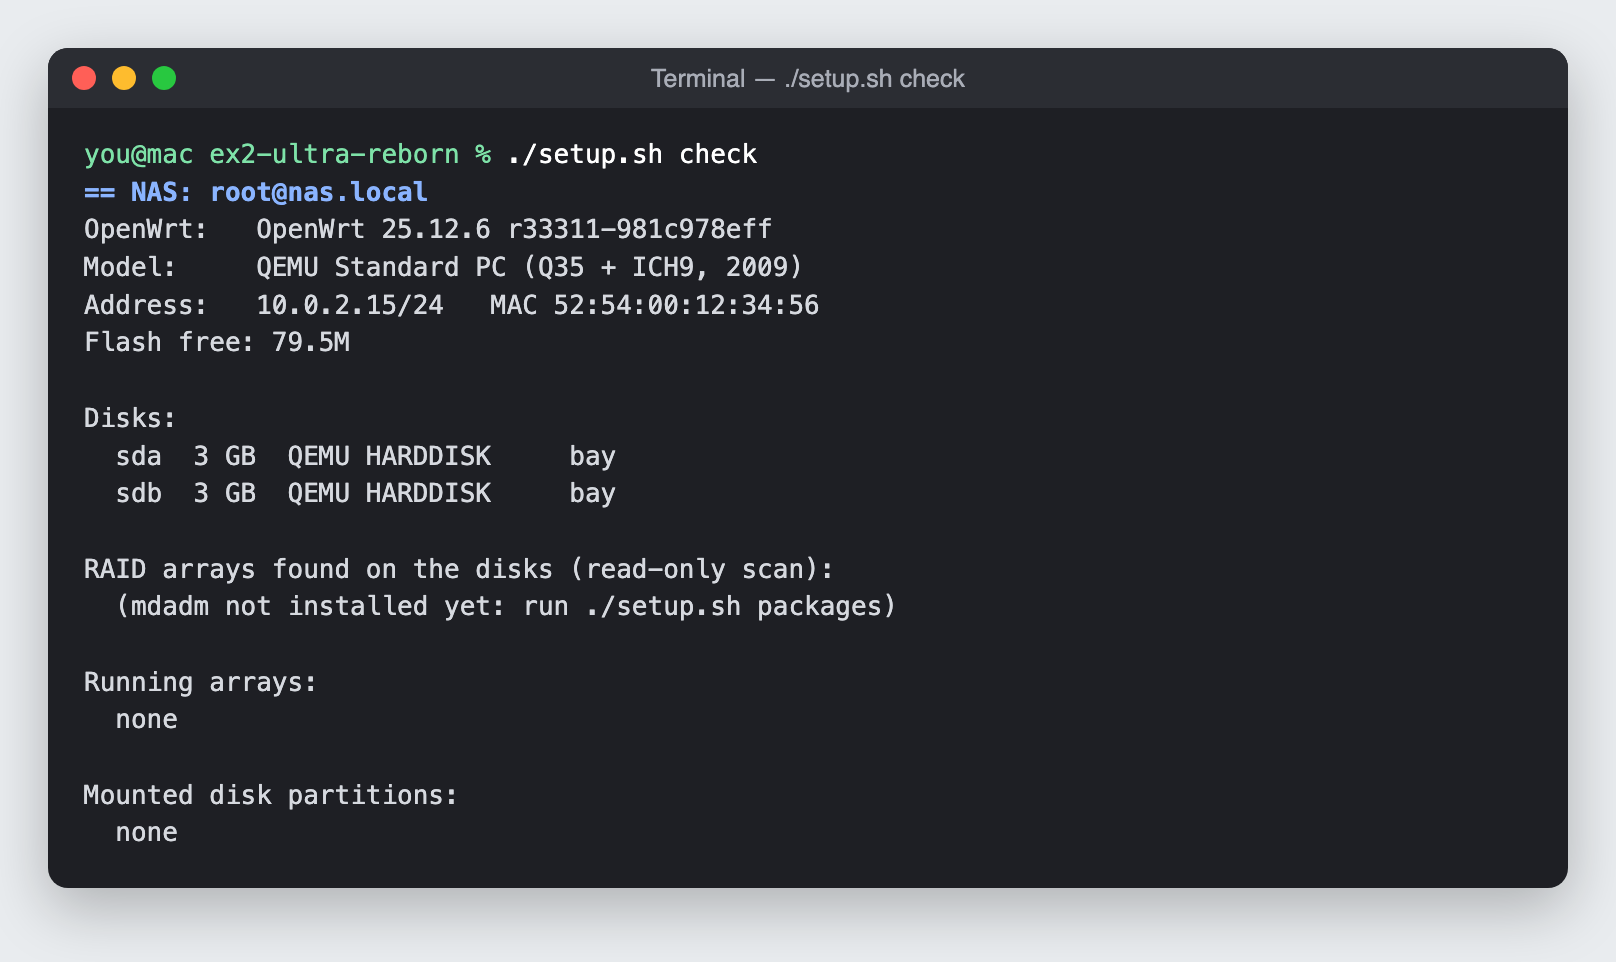
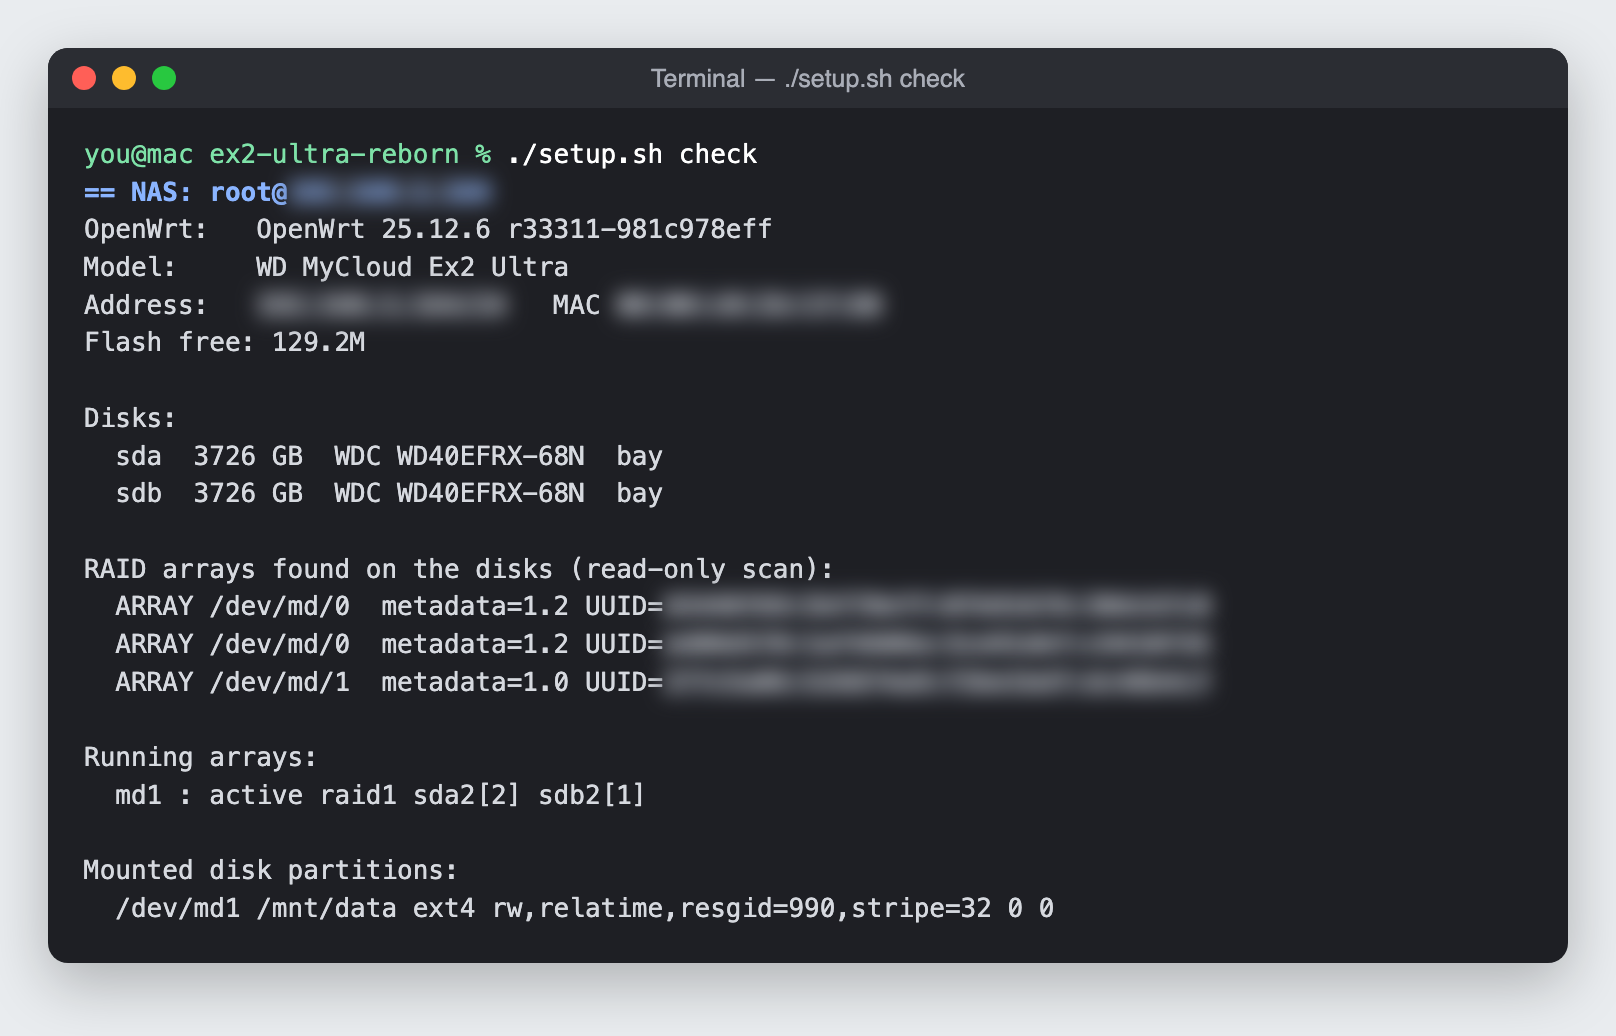
Setup guide: check screenshot from a real EX2 Ultra

Changed region(s): [[0.0309, 0.1247, 0.7735, 0.7796], [0.0309, 0.8108, 0.9592, 0.9356], [0.0309, 0.0312, 0.9592, 0.0936]]

diff --git a/docs/SETUP-GUIDE.md b/docs/SETUP-GUIDE.md
@@ -3,10 +3,9 @@
 Start here once OpenWrt is installed ([install guide](INSTALL-OPENWRT.md)) and you can
 `ssh root@<NAS IP>`. On Windows, run these commands in WSL: see [WINDOWS.md](WINDOWS.md).
 
-> The screenshots are real output, recorded on an OpenWrt test VM whose two disks are laid
-> out exactly like WD's (a RAID 1 data mirror on partition 2, holding some family files).
-> That's why they show "QEMU" hardware and the address `10.0.2.15`. On your NAS you'll see
-> the EX2 Ultra and your own network details.
+> All screenshots are real output. Step 1 is from a real EX2 Ultra (addresses blurred). The
+> other steps were recorded on a test install whose two disks are laid out exactly like
+> WD's.
 
 ```sh
 export NAS=root@<NAS IP>      # or root@nas.local once the NAS has its name
